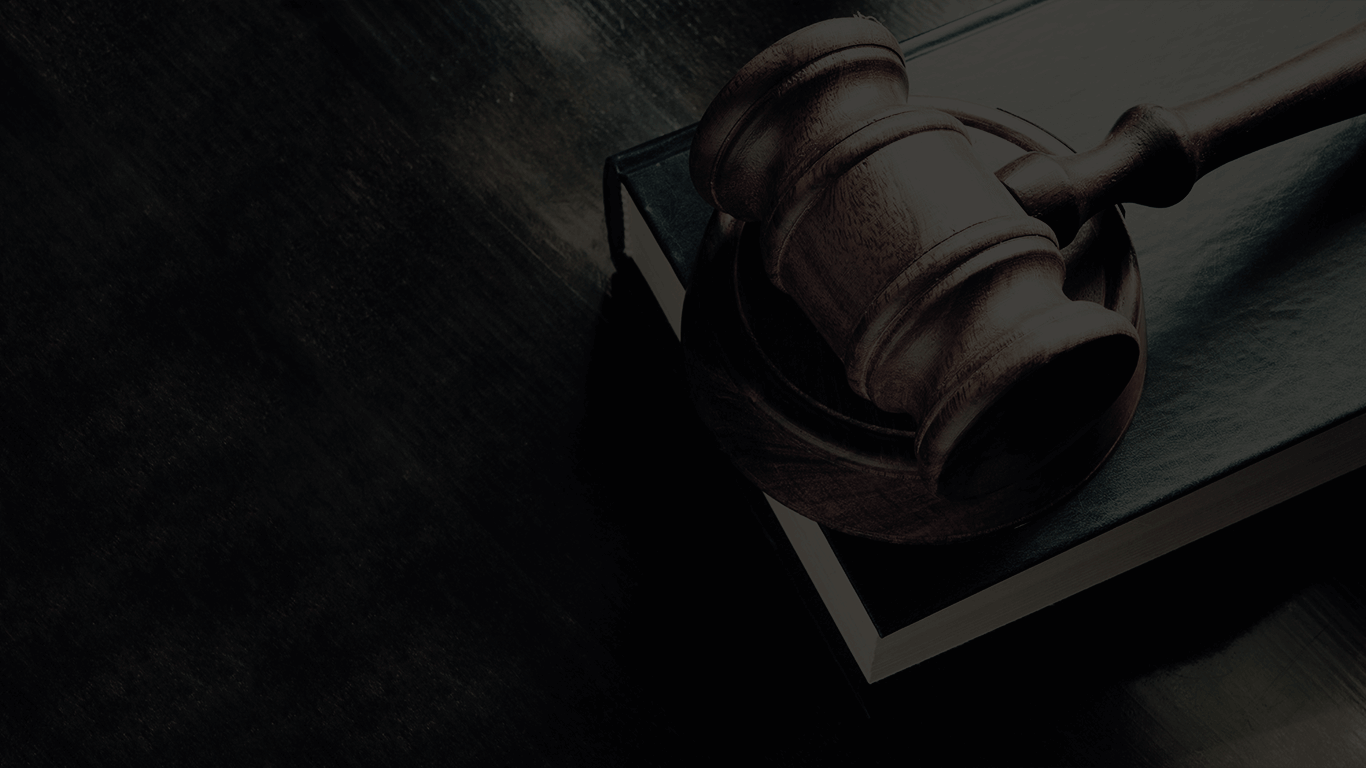
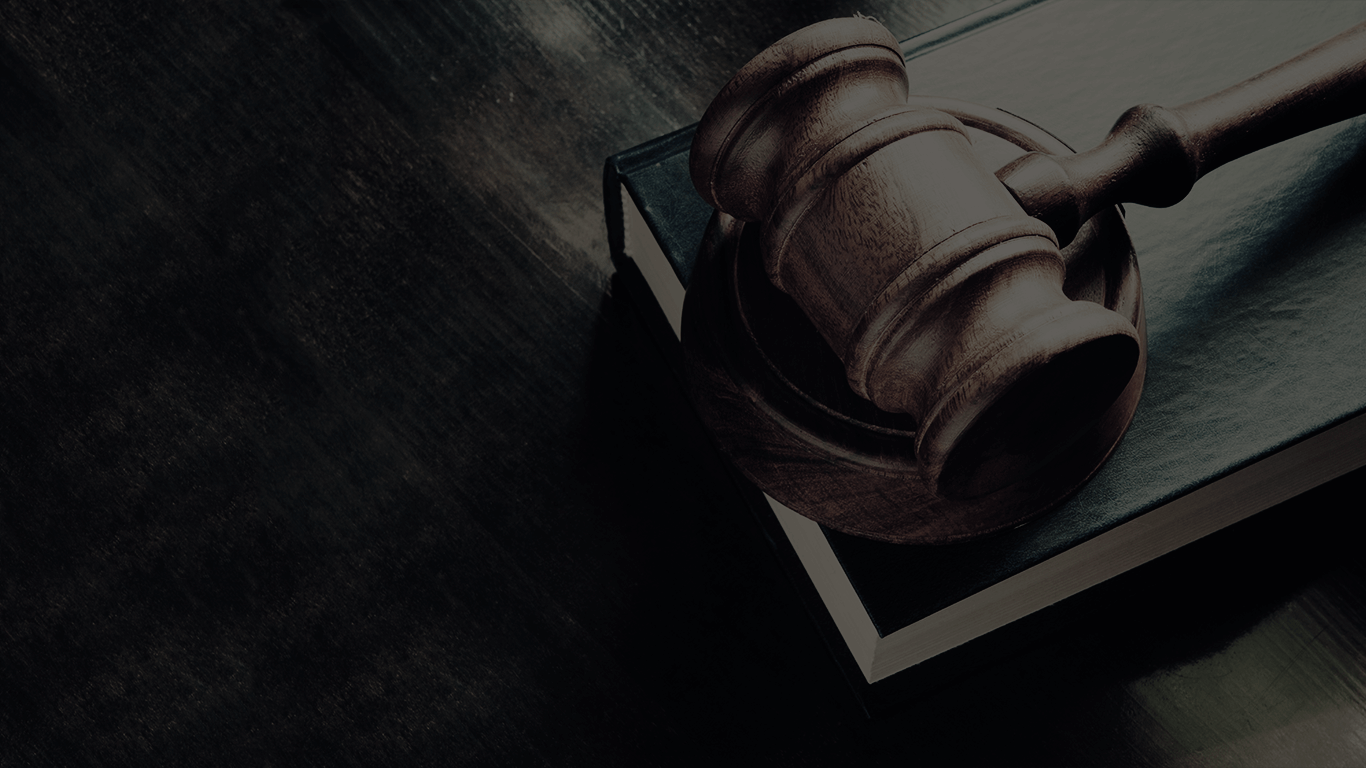
change images for header and certificate

diff --git a/public/css/site.min.css b/public/css/site.min.css
@@ -1,2 +1,2 @@
-*{-moz-box-sizing:border-box;-webkit-box-sizing:border-box;box-sizing:border-box}body,html{width:100%;height:100%;margin:0;padding:0;font-size:16px;font-family:'Source Serif Pro',serif}.clearfix{clear:both}.contact{padding:70px 0}.contact__logo{width:75px;height:75px;margin:0 auto 50px;background-image:url(../images/logo-w.png);background-size:cover}.contact__title{width:280px;margin:0 auto 40px;color:#3d3d3d;font-size:40px}.contact__form{width:280px;margin:0 auto 20px}.contact__input{width:100%;height:50px;margin-bottom:20px;border:0;outline:0;color:#3d3d3d;font-size:18px;font-family:"Source Serif Pro",sans-serif;border-bottom:1px solid transparent}.contact__input:focus{border-bottom-color:#d4ae62}.contact__input::-webkit-input-placeholder{color:#5b5b5b}.contact__input:-moz-placeholder,.contact__input::-moz-placeholder{color:#5b5b5b}.contact__input:-ms-input-placeholder{color:#5b5b5b}.contact__send{width:175px;height:50px;line-height:50px;margin:0 auto 15px;border:1px solid #d4ae62;text-align:center;font-size:20px;color:#d4ae62;cursor:pointer;-webkit-touch-callout:none;-webkit-user-select:none;-khtml-user-select:none;-moz-user-select:none;-ms-user-select:none;user-select:none}@media (min-width:375px){.contact__send{margin-bottom:55px}}@media (min-width:410px){.contact__send{margin-bottom:70px}}.contact__send:hover{background-color:#d4ae62;color:#fff;border-color:#fff}.contact__group{margin:70px auto 0;width:190px;text-align:center}.contact__icon{width:40px;margin-bottom:20px}.contact__icon_email{margin-bottom:10px}.contact__text{color:#a6a6a6;font-size:17px;line-height:25px;font-family:"Source Sans Pro",sans-serif}.contact__link,.contact__link:hover{color:#a6a6a6;text-decoration:none}.description{padding:70px 0}@media (min-width:600px){.description{padding:90px 0}}@media (min-width:820px){.description{padding:140px 0}}.description__text{width:270px;text-align:center;margin:0 auto;color:#3d3d3d;font-size:23px;font-weight:400;line-height:33px}@media (min-width:600px){.description__text{width:580px}}@media (min-width:820px){.description__text{width:800px}}.details-photo{position:relative}.details-photo__image{display:block;width:100%}@media (min-width:768px){.details-photo__image{display:none}}.details-photo__image-tablet{display:none}@media (min-width:768px){.details-photo__image-tablet{display:block;width:100%}}@media (min-width:900px){.details-photo__image-tablet{display:none}}.details-photo__caption{position:absolute;bottom:0;left:0;width:270px;height:60px;line-height:65px;text-align:center;font-size:22px;background-color:#d4ae62;color:#fff}.details-photo__caption_right{left:auto;right:0}.details-info{padding:70px 0;background-color:#f7f7f7}@media (min-width:600px){.details-info{padding:40px 30px}}@media (min-width:1024px){.details-info{padding:50px}}@media (min-width:1280px){.details-info{padding:70px}}.details-info__title{width:280px;margin:0 auto 30px;color:#3d3d3d;font-size:30px}@media (min-width:600px){.details-info__title{width:100%;max-width:560px}}@media (min-width:900px){.details-info__title{margin:0 0 30px}}.details-info__title_secondary{font-size:25px;margin-top:40px}.details-info__text{width:280px;margin:0 auto;color:#5b5b5b;font-size:17px;font-family:'Source Sans Pro',sans-serif;line-height:25px;text-align:justify}@media (min-width:600px){.details-info__text{max-width:560px;width:100%}}@media (min-width:900px){.details-info__text{margin:0;text-align:left}}.details-info__text_left{text-align:left}.details-info__list-item{position:relative;margin-bottom:12px;padding-left:32px}.details-info__list-item:before{display:block;position:absolute;top:6px;left:0;content:' ';width:10px;height:10px;border:2px solid #d4ae62;border-radius:10px}.details-info__subtitle{position:relative;width:280px;margin:0 auto 30px}@media (min-width:600px){.details-info__subtitle{width:100%;max-width:560px}}.details-info__subtitle-icon{position:absolute;top:14px;width:24px}@media (min-width:600px){.details-info__subtitle-icon{top:4px}}@media (min-width:900px){.details-info__subtitle-icon{top:14px}}@media (min-width:1122px){.details-info__subtitle-icon{top:4px}}.details-info__subtitle-text{display:inline-block;color:#3d3d3d;font-size:20px;padding-left:40px}@media (min-width:900px){.details-photo_top{display:inline-block;width:40%;float:right;height:760px;background-image:url(../images/details-1.png);background-size:cover;background-position:center}.details-info_top,.details-photo_bottom{display:inline-block;width:60%;float:left;height:760px}.details-photo_bottom{background-image:url(../images/details-2.png);background-size:cover;background-position:center}.details-info_bottom{display:inline-block;width:40%;float:right;height:760px;padding:140px 30px}}@media (min-width:1024px){.details-info_bottom{padding:170px 30px}}@media (min-width:1560px){.details-info_bottom{padding:230px 30px}}.header{position:relative;width:100%;min-height:100%;padding-top:40px;padding-bottom:30px;background-image:url(../images/header-mobile.png);background-size:cover}@media (min-width:375px){.header{padding-top:60px}}@media (min-width:410px){.header{padding-top:70px}}@media (min-width:768px){.header{padding-top:50px;min-height:768px}}@media (min-width:768px) and (min-height:768px){.header{min-height:100%}}@media (min-width:850px){.header{background-image:url(../images/header.png)}}.header__logo{width:90px;height:90px;background-image:url(../images/logo.png);background-size:cover;margin:0 auto 40px}@media (min-width:375px){.header__logo{margin-bottom:60px}}@media (min-width:410px){.header__logo{margin-bottom:70px}}@media (min-width:768px){.header__info{position:absolute;top:50%;left:50%;width:700px;-moz-transform:translate(-50%,-50%);-ms-transform:translate(-50%,-50%);-o-transform:translate(-50%,-50%);-webkit-transform:translate(-50%,-50%);transform:translate(-50%,-50%)}}@media (min-width:820px){.header__info{width:780px}}.header__title{max-width:320px;margin:0 auto 15px;color:#fff;font-size:40px;text-align:center}@media (min-width:768px){.header__title{max-width:none;font-size:54px;margin-bottom:30px}}@media (min-width:820px){.header__title{font-size:60px}}.header__text{width:300px;color:#b0adad;font-size:15px;line-height:20px;margin:0 auto 20px;text-align:center}@media (min-width:375px){.header__text{margin-bottom:30px}}@media (min-width:410px){.header__text{margin-bottom:50px}}@media (min-width:768px){.header__text{width:670px;font-size:18px;line-height:25px}}.header__contact{position:relative;z-index:1;width:175px;height:50px;line-height:50px;margin:0 auto 15px;border:1px solid #d4ae62;text-align:center;font-size:20px;color:#d4ae62;cursor:pointer;-webkit-touch-callout:none;-webkit-user-select:none;-khtml-user-select:none;-moz-user-select:none;-ms-user-select:none;user-select:none}@media (min-width:375px){.header__contact{margin-bottom:55px}}@media (min-width:410px){.header__contact{margin-bottom:70px}}.header__contact:hover{background-color:#d4ae62;color:#fff;border-color:#fff}.header__scroll{cursor:pointer}@media (min-width:768px){.header__scroll{position:absolute;bottom:60px;left:50%;-moz-transform:translateX(-50%);-ms-transform:translateX(-50%);-o-transform:translateX(-50%);-webkit-transform:translateX(-50%);transform:translateX(-50%)}}.header__scroll-text{width:190px;text-align:center;margin:0 auto 14px;color:#aeabab;font-size:14px}.header__scroll-arrow{width:25px;height:13px;background-image:url(../images/scroll-arrow.png);background-size:cover;margin:0 auto}.header__corner{position:absolute;bottom:10px;left:10px}@media (min-width:375px){.header__corner{bottom:15px;left:15px}}@media (min-width:768px){.header__corner{bottom:40px;left:40px}}.header__corner-yellow{position:absolute;bottom:0;left:15px;width:1px;height:80px;border-left:1px solid #d4ae62}@media (min-width:768px){.header__corner-yellow{height:150px;left:25px}}.header__corner-gray{position:absolute;bottom:20px;width:80px;height:80px;border:1px solid #979797;border-top:none;border-right:none}@media (min-width:768px){.header__corner-gray{width:150px;height:150px;bottom:40px}}.header__corner-copyright{position:absolute;bottom:0;left:20px;width:120px;color:#aeabab;font-size:12px}@media (min-width:768px){.header__corner-copyright{left:45px;font-size:14px;width:140px;bottom:6px}}
+*{-moz-box-sizing:border-box;-webkit-box-sizing:border-box;box-sizing:border-box}body,html{width:100%;height:100%;margin:0;padding:0;font-size:16px;font-family:'Source Serif Pro',serif}.clearfix{clear:both}.contact{padding:70px 0}.contact__logo{width:75px;height:75px;margin:0 auto 50px;background-image:url(../images/logo-w.png);background-size:cover}.contact__title{width:280px;margin:0 auto 40px;color:#3d3d3d;font-size:40px}.contact__form{width:280px;margin:0 auto 20px}.contact__input{width:100%;height:50px;margin-bottom:20px;border:0;outline:0;color:#3d3d3d;font-size:18px;font-family:"Source Serif Pro",sans-serif;border-bottom:1px solid transparent}.contact__input:focus{border-bottom-color:#d4ae62}.contact__input::-webkit-input-placeholder{color:#5b5b5b}.contact__input:-moz-placeholder,.contact__input::-moz-placeholder{color:#5b5b5b}.contact__input:-ms-input-placeholder{color:#5b5b5b}.contact__send{width:175px;height:50px;line-height:50px;margin:0 auto 15px;border:1px solid #d4ae62;text-align:center;font-size:20px;color:#d4ae62;cursor:pointer;-webkit-touch-callout:none;-webkit-user-select:none;-khtml-user-select:none;-moz-user-select:none;-ms-user-select:none;user-select:none}@media (min-width:375px){.contact__send{margin-bottom:55px}}@media (min-width:410px){.contact__send{margin-bottom:70px}}.contact__send:hover{background-color:#d4ae62;color:#fff;border-color:#fff}.contact__group{margin:70px auto 0;width:190px;text-align:center}.contact__icon{width:40px;margin-bottom:20px}.contact__icon_email{margin-bottom:10px}.contact__text{color:#a6a6a6;font-size:17px;line-height:25px;font-family:"Source Sans Pro",sans-serif}.contact__link,.contact__link:hover{color:#a6a6a6;text-decoration:none}.description{padding:70px 0}@media (min-width:600px){.description{padding:90px 0}}@media (min-width:820px){.description{padding:140px 0}}.description__text{width:270px;text-align:center;margin:0 auto;color:#3d3d3d;font-size:23px;font-weight:400;line-height:33px}@media (min-width:600px){.description__text{width:580px}}@media (min-width:820px){.description__text{width:800px}}.details-photo{position:relative}.details-photo__image{display:block;width:100%}@media (min-width:768px){.details-photo__image{display:none}}.details-photo__image-tablet{display:none}@media (min-width:768px){.details-photo__image-tablet{display:block;width:100%}}@media (min-width:900px){.details-photo__image-tablet{display:none}}.details-photo__caption{position:absolute;bottom:0;left:0;width:270px;height:60px;line-height:65px;text-align:center;font-size:22px;background-color:#d4ae62;color:#fff}.details-photo__caption_right{left:auto;right:0}.details-info{padding:70px 0;background-color:#f7f7f7}@media (min-width:600px){.details-info{padding:40px 30px}}@media (min-width:1024px){.details-info{padding:50px}}@media (min-width:1280px){.details-info{padding:70px}}.details-info__title{width:280px;margin:0 auto 30px;color:#3d3d3d;font-size:30px}@media (min-width:600px){.details-info__title{width:100%;max-width:560px}}@media (min-width:900px){.details-info__title{margin:0 0 30px}}.details-info__title_secondary{font-size:25px;margin-top:40px}.details-info__text{width:280px;margin:0 auto;color:#5b5b5b;font-size:17px;font-family:'Source Sans Pro',sans-serif;line-height:25px;text-align:justify}@media (min-width:600px){.details-info__text{max-width:560px;width:100%}}@media (min-width:900px){.details-info__text{margin:0;text-align:left}}.details-info__text_left{text-align:left}.details-info__list-item{position:relative;margin-bottom:12px;padding-left:32px}.details-info__list-item:before{display:block;position:absolute;top:6px;left:0;content:' ';width:10px;height:10px;border:2px solid #d4ae62;border-radius:10px}.details-info__subtitle{position:relative;width:280px;margin:0 auto 30px}@media (min-width:600px){.details-info__subtitle{width:100%;max-width:560px}}.details-info__subtitle-icon{position:absolute;top:14px;width:24px}@media (min-width:600px){.details-info__subtitle-icon{top:4px}}@media (min-width:900px){.details-info__subtitle-icon{top:14px}}@media (min-width:1122px){.details-info__subtitle-icon{top:4px}}.details-info__subtitle-text{display:inline-block;color:#3d3d3d;font-size:20px;padding-left:40px}@media (min-width:900px){.details-photo_top{display:inline-block;width:40%;float:right;height:760px;background-image:url(../images/details-1.png);background-size:cover;background-position:center}.details-info_top,.details-photo_bottom{display:inline-block;width:60%;float:left;height:760px}.details-photo_bottom{background-image:url(../images/details-2.png);background-size:cover;background-position:center}.details-info_bottom{display:inline-block;width:40%;float:right;height:760px;padding:140px 30px}}@media (min-width:1024px){.details-info_bottom{padding:170px 30px}}@media (min-width:1560px){.details-info_bottom{padding:230px 30px}}.header{position:relative;width:100%;min-height:100%;padding-top:40px;padding-bottom:30px;background-image:url(../images/header-mobile.png);background-size:cover;background-position:center}@media (min-width:375px){.header{padding-top:60px}}@media (min-width:410px){.header{padding-top:70px}}@media (min-width:768px){.header{padding-top:50px;min-height:768px}}@media (min-width:768px) and (min-height:768px){.header{min-height:100%}}@media (min-width:850px){.header{background-image:url(../images/header.png)}}.header__logo{width:90px;height:90px;background-image:url(../images/logo.png);background-size:cover;margin:0 auto 40px}@media (min-width:375px){.header__logo{margin-bottom:60px}}@media (min-width:410px){.header__logo{margin-bottom:70px}}@media (min-width:768px){.header__info{position:absolute;top:50%;left:50%;width:700px;-moz-transform:translate(-50%,-50%);-ms-transform:translate(-50%,-50%);-o-transform:translate(-50%,-50%);-webkit-transform:translate(-50%,-50%);transform:translate(-50%,-50%)}}@media (min-width:820px){.header__info{width:780px}}.header__title{max-width:320px;margin:0 auto 15px;color:#fff;font-size:40px;text-align:center}@media (min-width:768px){.header__title{max-width:none;font-size:54px;margin-bottom:30px}}@media (min-width:820px){.header__title{font-size:60px}}.header__text{width:300px;color:#b0adad;font-size:15px;line-height:20px;margin:0 auto 20px;text-align:center}@media (min-width:375px){.header__text{margin-bottom:30px}}@media (min-width:410px){.header__text{margin-bottom:50px}}@media (min-width:768px){.header__text{width:670px;font-size:18px;line-height:25px}}.header__contact{position:relative;z-index:1;width:175px;height:50px;line-height:50px;margin:0 auto 15px;border:1px solid #d4ae62;text-align:center;font-size:20px;color:#d4ae62;cursor:pointer;-webkit-touch-callout:none;-webkit-user-select:none;-khtml-user-select:none;-moz-user-select:none;-ms-user-select:none;user-select:none}@media (min-width:375px){.header__contact{margin-bottom:55px}}@media (min-width:410px){.header__contact{margin-bottom:70px}}.header__contact:hover{background-color:#d4ae62;color:#fff;border-color:#fff}.header__scroll{cursor:pointer}@media (min-width:768px){.header__scroll{position:absolute;bottom:60px;left:50%;-moz-transform:translateX(-50%);-ms-transform:translateX(-50%);-o-transform:translateX(-50%);-webkit-transform:translateX(-50%);transform:translateX(-50%)}}.header__scroll-text{width:190px;text-align:center;margin:0 auto 14px;color:#aeabab;font-size:14px}.header__scroll-arrow{width:25px;height:13px;background-image:url(../images/scroll-arrow.png);background-size:cover;margin:0 auto}.header__corner{position:absolute;bottom:10px;left:10px}@media (min-width:375px){.header__corner{bottom:15px;left:15px}}@media (min-width:768px){.header__corner{bottom:40px;left:40px}}.header__corner-yellow{position:absolute;bottom:0;left:15px;width:1px;height:80px;border-left:1px solid #d4ae62}@media (min-width:768px){.header__corner-yellow{height:150px;left:25px}}.header__corner-gray{position:absolute;bottom:20px;width:80px;height:80px;border:1px solid #979797;border-top:none;border-right:none}@media (min-width:768px){.header__corner-gray{width:150px;height:150px;bottom:40px}}.header__corner-copyright{position:absolute;bottom:0;left:20px;width:120px;color:#aeabab;font-size:12px}@media (min-width:768px){.header__corner-copyright{left:45px;font-size:14px;width:140px;bottom:6px}}
 /*# sourceMappingURL=site.css.map */

diff --git a/public/css/site.css b/public/css/site.css
@@ -311,7 +311,8 @@ html, body {
   padding-top: 40px;
   padding-bottom: 30px;
   background-image: url("../images/header-mobile.png");
-  background-size: cover; }
+  background-size: cover;
+  background-position: center; }
   @media (min-width: 375px) {
     .header {
       padding-top: 60px; } }

diff --git a/public/scss/component.header.scss b/public/scss/component.header.scss
@@ -11,8 +11,7 @@
 
   background-image: url('../images/header-mobile.png');
   background-size: cover;
-
-
+  background-position: center;
 
   @media (min-width: 375px) {
     padding-top: 60px;

diff --git a/public/index.html b/public/index.html
@@ -146,6 +146,8 @@
                     </a>
                 </div>
             </div>
+
+            <div class="clearfix"></div>
         </div>
     </div>
 
